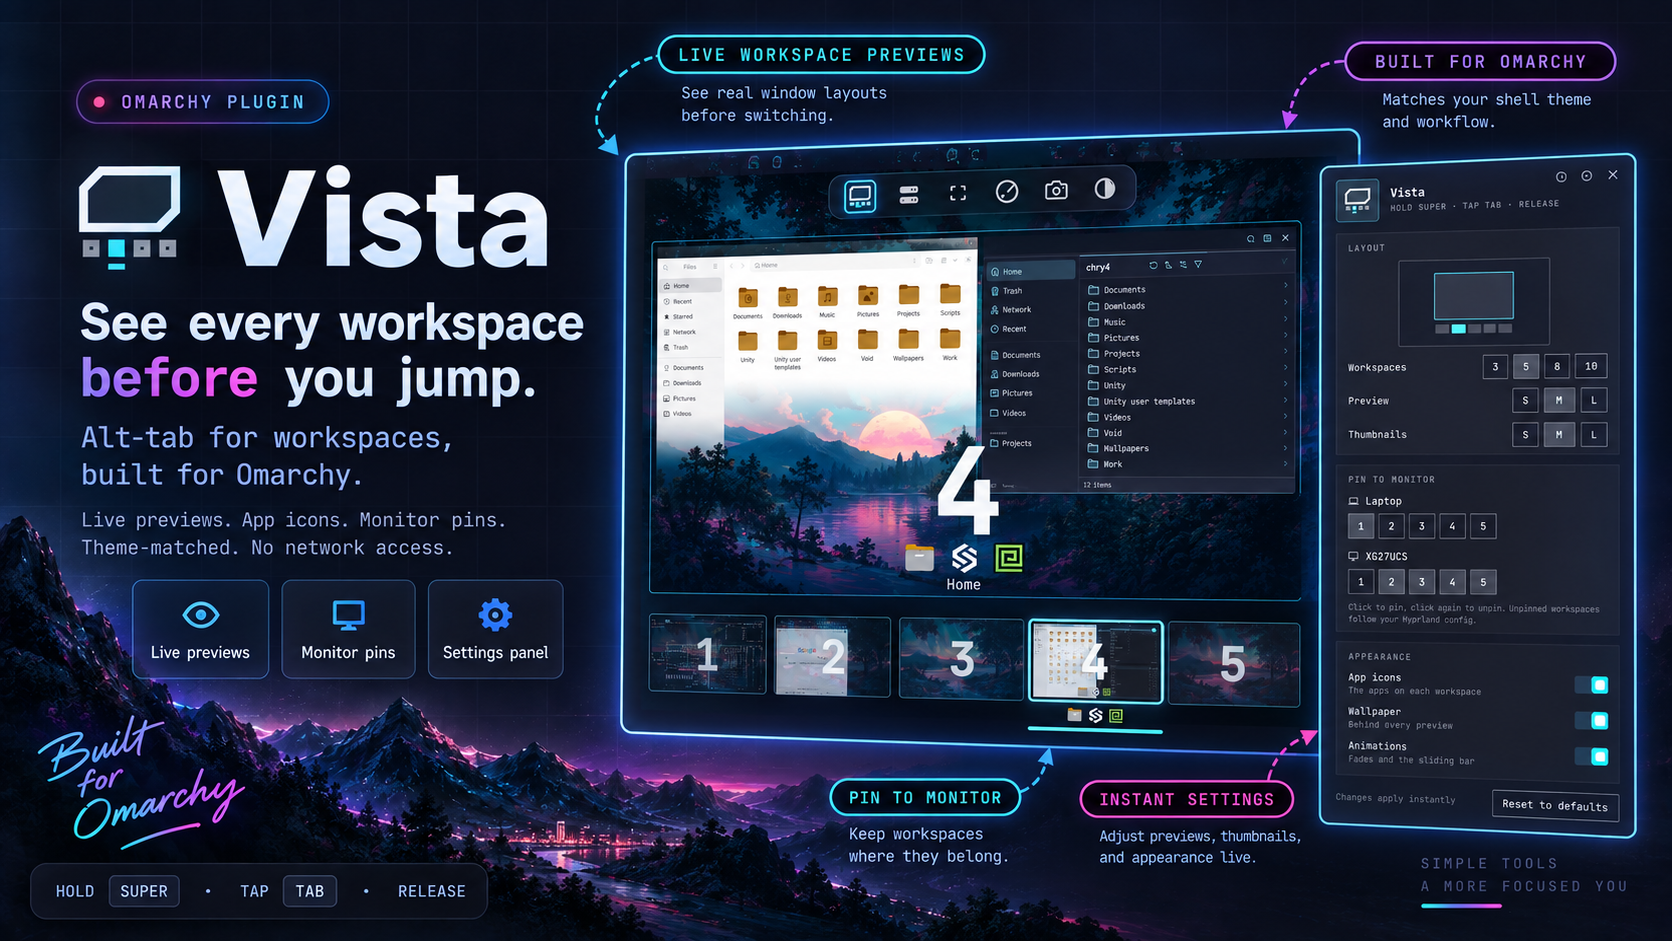
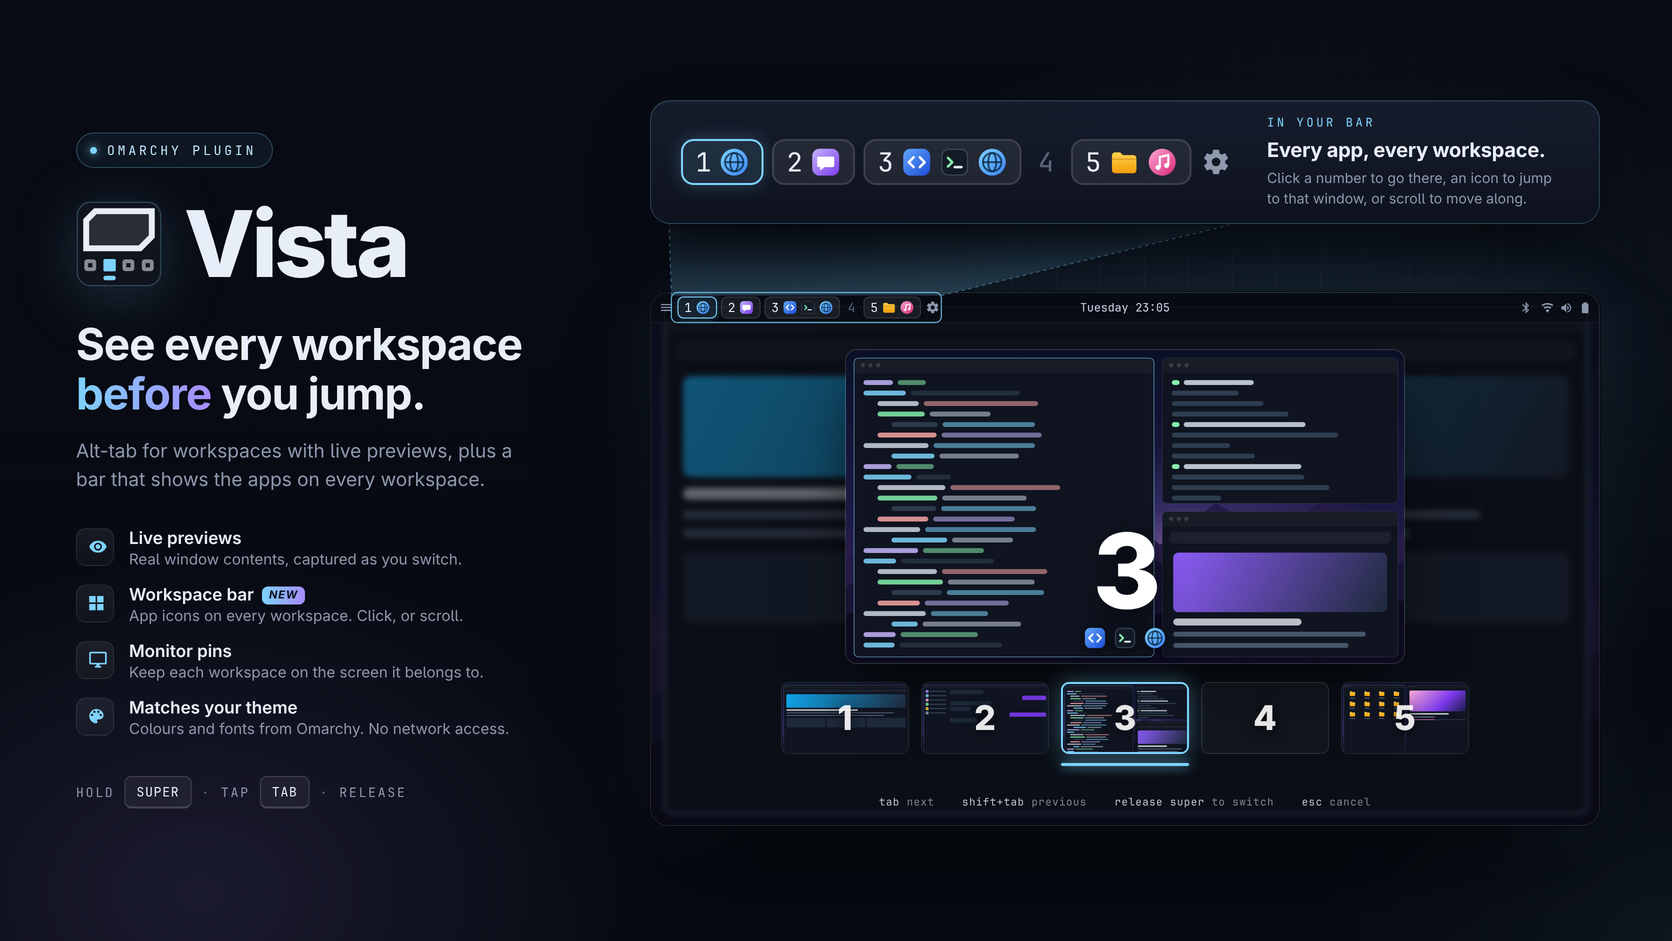
New store image showing the workspace bar

diff --git a/README.md b/README.md
@@ -14,7 +14,7 @@
 </p>
 
 <p align="center">
-  <img src="preview.png" alt="Vista: a large live preview of the selected workspace above a filmstrip of every workspace, next to the Vista settings panel" width="900">
+  <img src="preview.png" alt="Vista: the workspace bar with app icons on every workspace, above the Super+Tab switcher showing a large live preview and a filmstrip of every workspace" width="900">
 </p>
 
 ---
